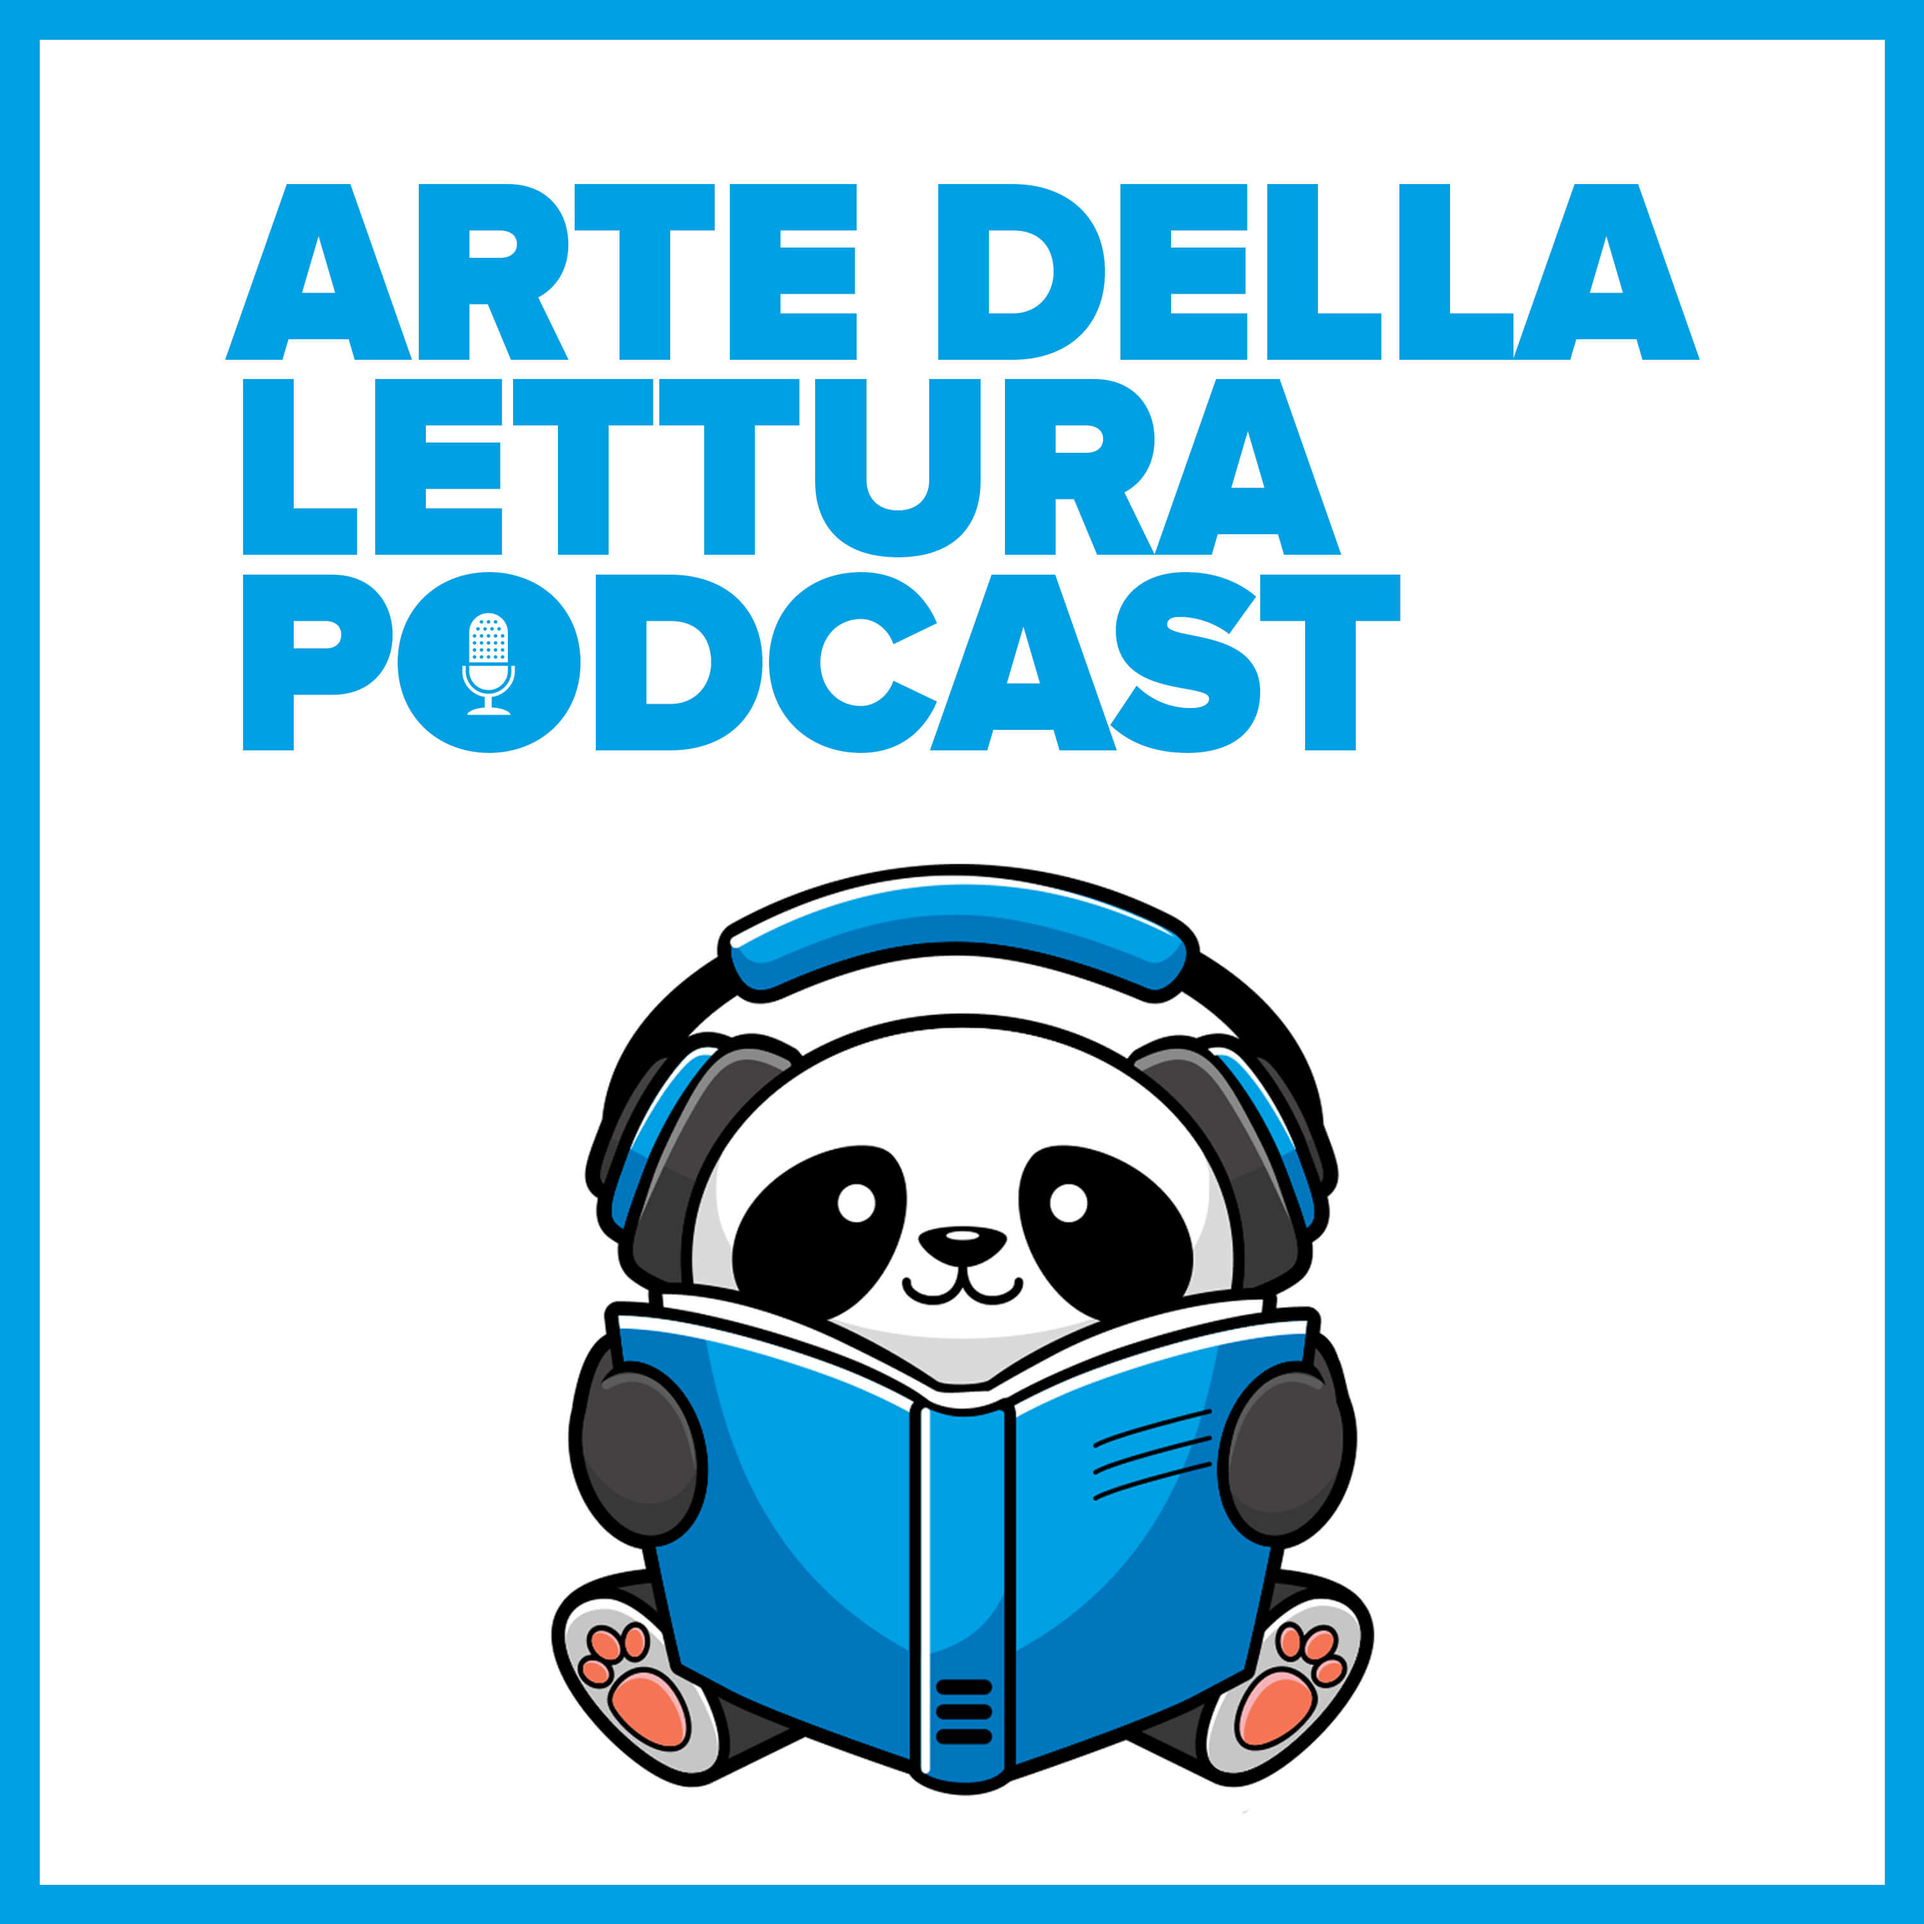
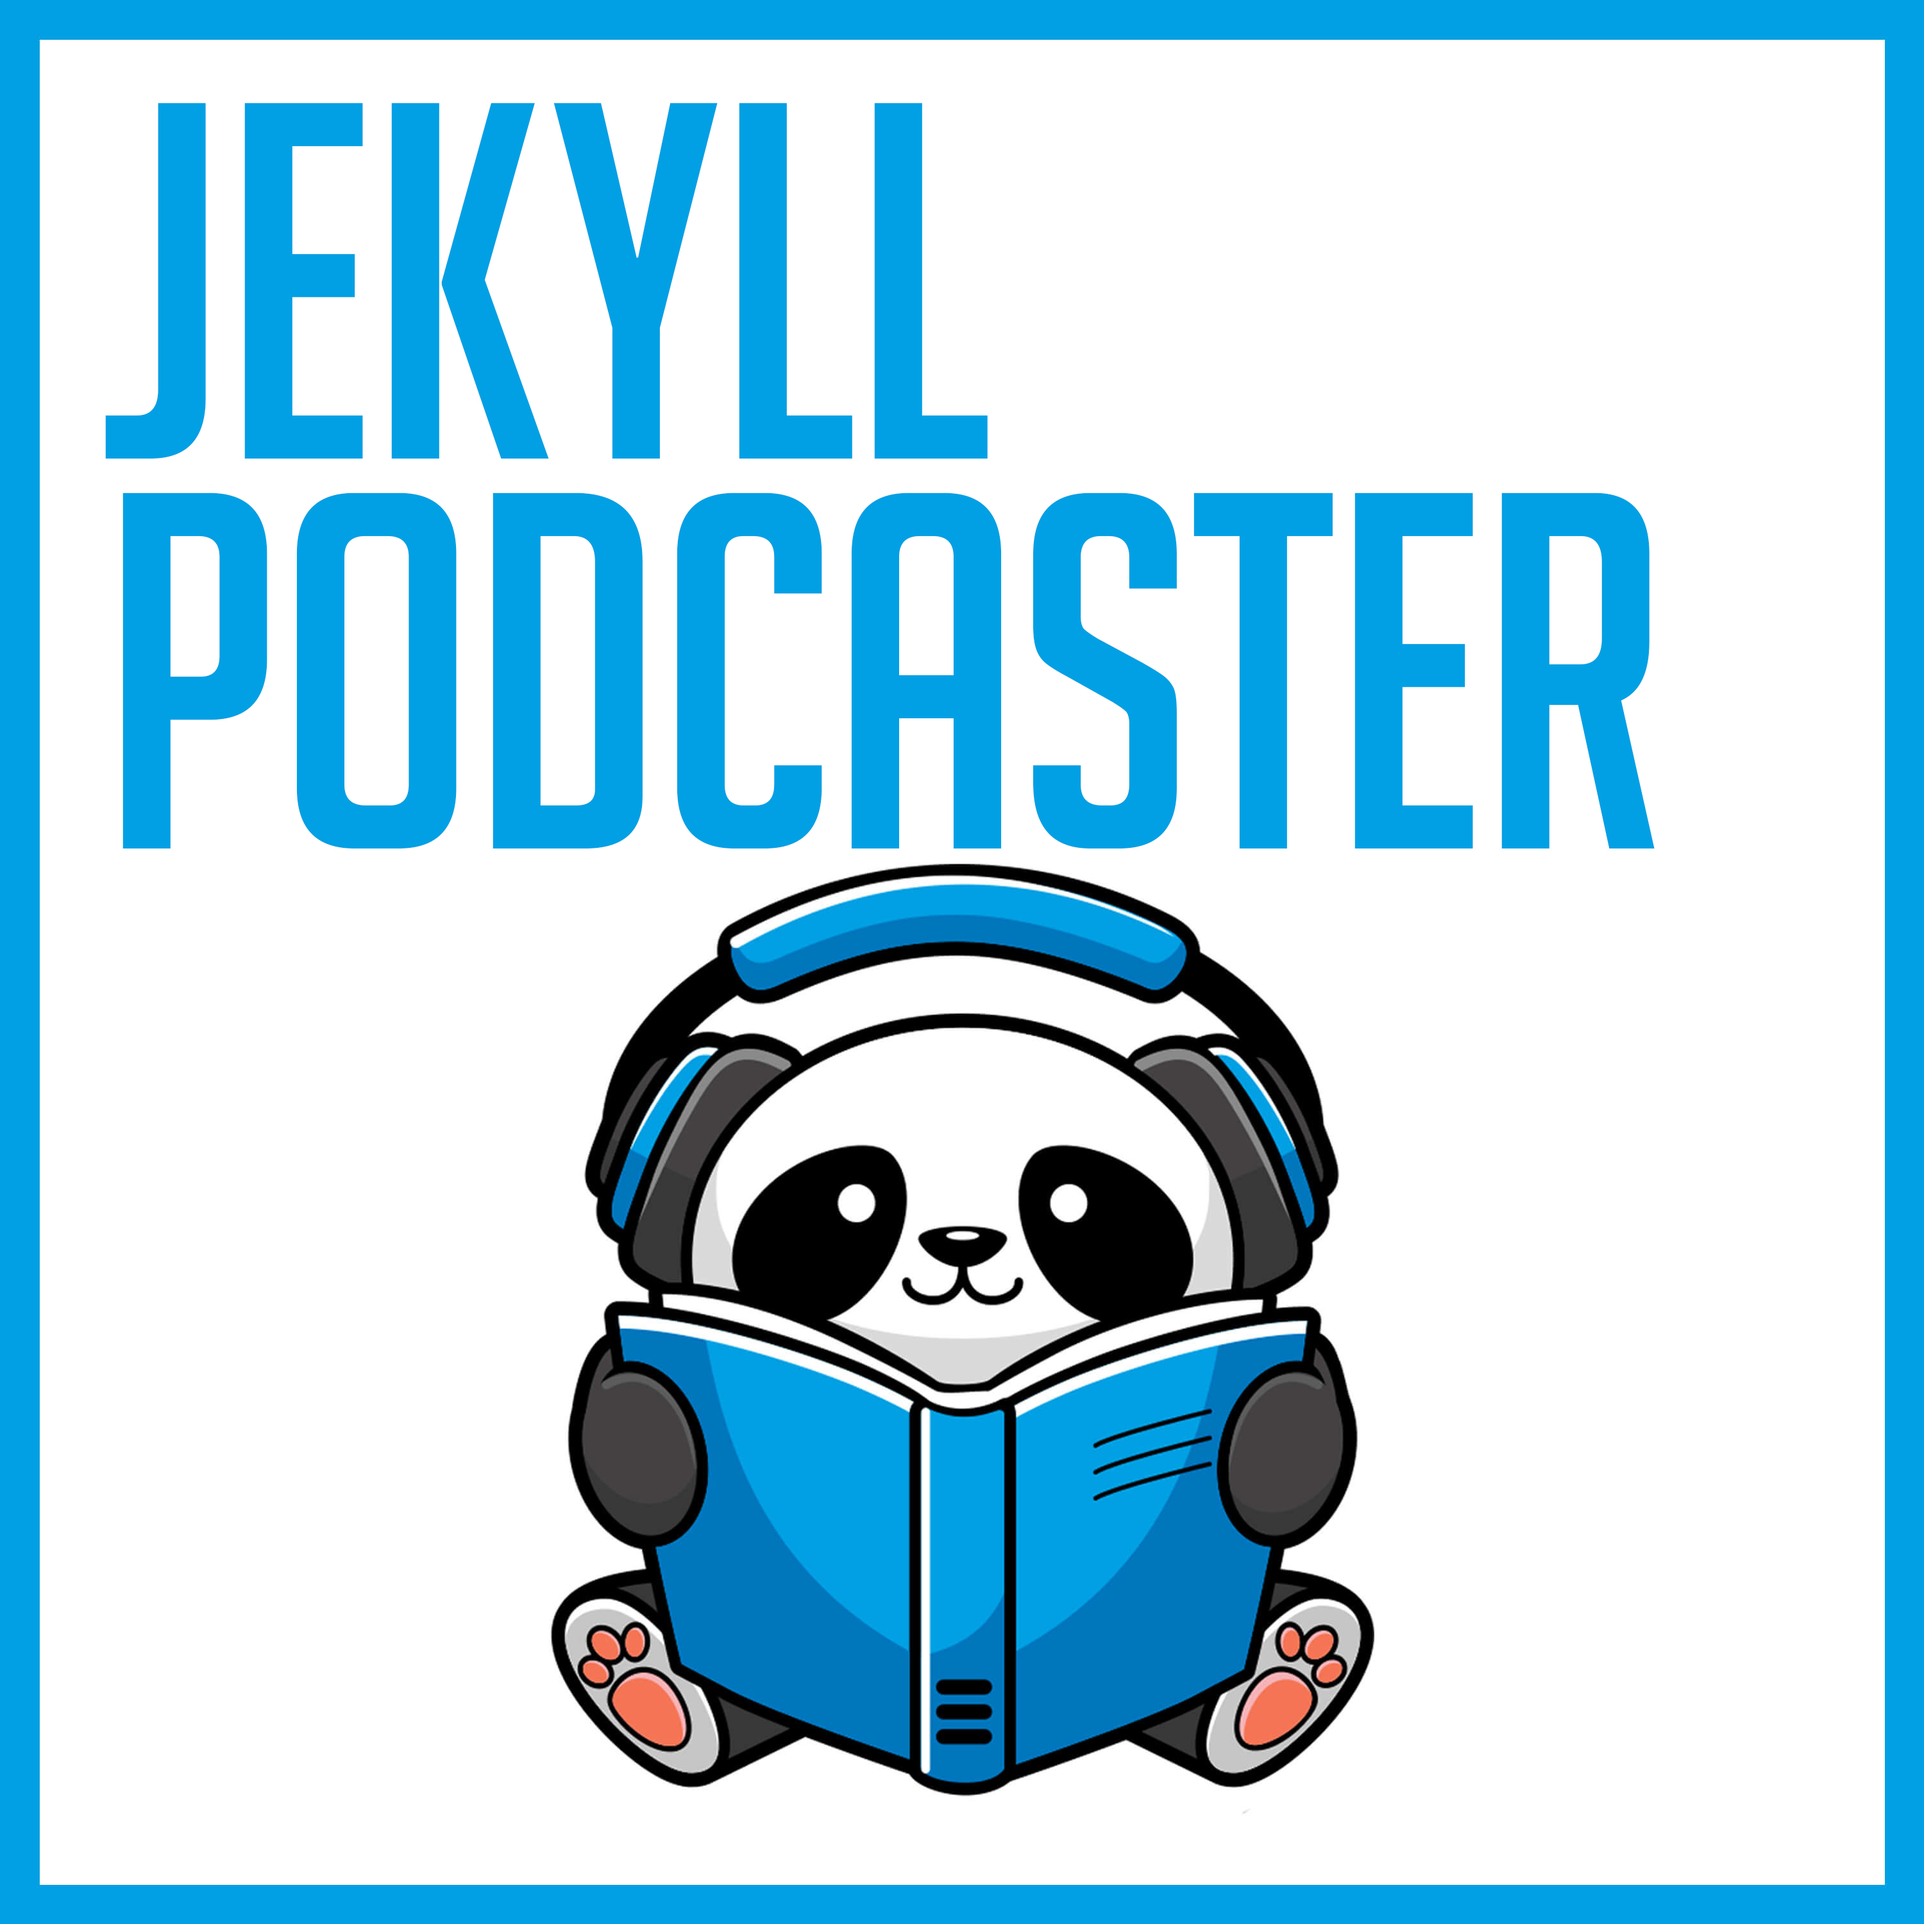
update

Changed region(s): [[0.031, 0.031, 0.899, 0.465]]

diff --git a/_includes/playerjs.html b/_includes/playerjs.html
@@ -10,7 +10,6 @@
      'progress',
      "fast-forward",
      'current-time',
-    // 'duration', 
      'mute',
      'volume',
      'settings',
@@ -19,41 +18,6 @@
 
     const players = Array.from(document.querySelectorAll(".player"));
         players.map(player => new Plyr(player, {
-            controls,
-        invertTime: true,
-        toggleInvert: true,
-        settings: ['quality', 'speed'],
-        //Italian translation, used in my website. Delete this to use English or translate the player to your language.
-        i18n: {
-            restart: 'Riavvia',
-            rewind: 'Riavvolgi di {seektime} secondi',
-            play: 'Avvia',
-            pause: 'Pausa',
-            fastForward: 'Avanza di {seektime} secondi',
-            seek: 'Cerca',
-            played: 'Riprodotto',
-            buffered: 'Bufferato',
-            currentTime: 'Tempo Corrente',
-            duration: 'Durata',
-            volume: 'Volume',
-            mute: 'Muta',
-            unmute: 'Smuta',
-            enterFullscreen: 'Tutto schermo',
-            exitFullscreen: 'Esci dal tutto schermo',
-            frameTitle: 'Player per {title}',
-            settings: 'Impostazioni',
-            speed: 'Velocità',
-            normal: 'Normale',
-            quality: 'Qualità',
-            loop: 'Loop',
-            start: 'Inizio',
-            end: 'Fine',
-            all: 'Tutto',
-            reset: 'Reset',
-            disabled: 'Disabilitato',
-        }}));
-
-    /*const player = new Plyr('#player', {
         controls,
         invertTime: true,
         toggleInvert: true,
@@ -86,6 +50,5 @@
             all: 'Tutto',
             reset: 'Reset',
             disabled: 'Disabilitato',
-        }
-    });*/
+        }}));
 </script>

diff --git a/_layouts/home.html b/_layouts/home.html
@@ -1,9 +1,7 @@
 ---
 layout: default
-title: Home
 ---
 {% for post in paginator.posts %}
-
 
 
 <div class="post">
@@ -21,8 +19,11 @@ title: Home
 
         <div class = "info">
             <span>
-                <i class="far fa-calendar" aria-hidden="true"></i>
-                <time datetime="{{ post.date | date_to_xmlschema }}" class="by-line">{%- include date.html date=post.date -%}</time> - <i class="far fa-clock"></i> {{post.length}}
+              {% if site.data.settings.translate-date == true %}
+                <i class="far fa-calendar" aria-hidden="true"></i>{%- include date.html date=post.date -%}<span> - </span><i class="far fa-clock"></i> {{post.length}}
+              {% else %}
+                <i class="far fa-calendar" aria-hidden="true"></i>{{ post.date | date_to_long_string}}<span> - </span><i class="far fa-clock"></i> {{post.length}}
+              {% endif %}
             </span>
         </div>
     </div>

diff --git a/assets/js/disqus.js b/assets/js/disqus.js
@@ -3,9 +3,9 @@ var disqus_config = function () {
     this.page.identifier = document.location.pathname;
   };
 
-  (function() { // DON'T EDIT BELOW THIS LINE
+  (function() { 
     var d = document, s = d.createElement('script');
-    s.src = '//artedellalettura.disqus.com/embed.js';
+    s.src = '//yournickhere.disqus.com/embed.js'; //Edit here
     s.setAttribute('data-timestamp', +new Date());
     (d.head || d.body).appendChild(s);
   })();

diff --git a/_includes/sidebar.html b/_includes/sidebar.html
@@ -15,10 +15,10 @@
   {% endfor %}
 </div>
 <div id = "ascoltare">
-    <h3>Dove Ascoltare</h3>
+    <h3>Where To Listen</h3>
     <div id = "lista-siti">
         <ul id = "siti">
-          {% for item in site.data.settings.siti-podcast  %}
+          {% for item in site.data.settings.websites-podcast  %}
           <li><a href="{{ item.url | absolute_url}}"> {{ item.name }}</a></li>
           {% endfor %}
         </ul>

diff --git a/_includes/footer.html b/_includes/footer.html
@@ -1,5 +1,5 @@
 <footer>
     <p>
-        Copyright <a href="https://alessiofranceschi.me/">Alessio Franceschi</a>. Tutti i diritti riservati.
+        Copyright <a href="{{ site.author.url }}">{{ site.author.name }}</a>. All Right Reserved. Theme designed by <a href="https://alessiofranceschi.me/">Alessio Franceschi</a>.
     </p>
 </footer>

diff --git a/_includes/disqus.html b/_includes/disqus.html
@@ -1,5 +1,5 @@
 <div id="disqus_thread"></div>
 <script src="/assets/js/disqus.js"></script>
 <noscript>
-  Per favore, abilita Javascript per visualizzare i commenti.</a>
+  Please activate Javascript to see the comments.</a>
 </noscript>

diff --git a/index.html b/index.html
@@ -1,4 +1,4 @@
 ---
 layout: home
-title: Arte della Lettura Podcast
+title: Jekyll Podcaster
 ---

diff --git a/categories.md b/categories.md
@@ -1,7 +1,7 @@
 ---
 layout: default
-permalink: /categorie
-title: Categorie
+permalink: /categories
+title: Categories
 ---
 {% assign sorted_categories = site.categories | sort %}
 {% for category in sorted_categories %}
@@ -11,9 +11,9 @@ title: Categorie
         <h2>{{ category_name }}</h2>
 
         <ul>
-        {% for post in site.categories[category_name] %}
-        <li><a class="archive-link" href="{{ site.baseurl }}{{ post.url }}">{{post.title}}</a></li>
-        {% endfor %}
+          {% for post in site.categories[category_name] %}
+            <li><a class="archive-link" href="{{ site.baseurl }}{{ post.url }}">{{post.title}}</a></li>
+          {% endfor %}
         </ul>
     </div>
   </div>

diff --git a/episodes.md b/episodes.md
@@ -1,10 +1,10 @@
 ---
 layout: default
-title: Episodi
+title: Episodes
 ---
 <div class = "episodes">
 
-<h2> Episodi </h2>
+<h2> Episodes </h2>
 <ul>
 {% for post in site.posts %}    
     {% if post.type == "main" %}
@@ -16,7 +16,7 @@ title: Episodi
 {% endfor %}
 </ul>
 
-<h2> Episodi Extra </h2>
+<h2> Extra Episodes </h2>
 <ul>
 {% for post in site.posts %}    
     {% if post.type == "extra" %}
